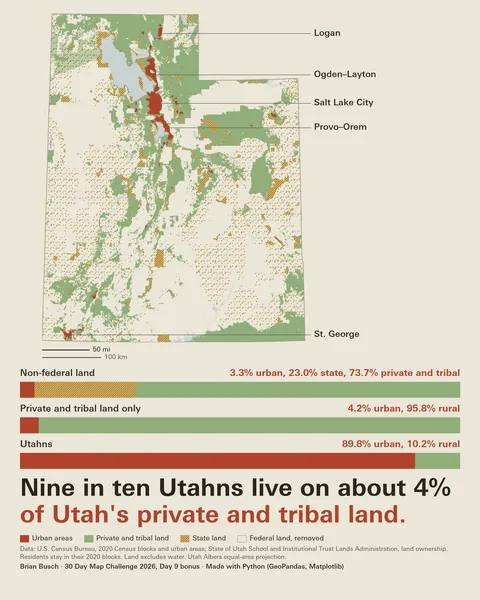
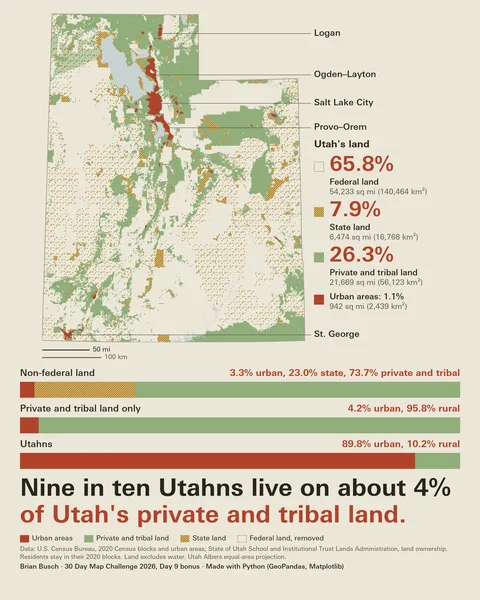
Add land shares to the Day 9 state land map
A list beside the map gives the federal, state and private and tribal
shares of Utah's land, with areas. The page text describes the list.

Changed region(s): [[0.6562, 0.21, 0.875, 0.54]]

diff --git a/notes/utah-urban-and-rural/index.html b/notes/utah-urban-and-rural/index.html
@@ -111,7 +111,7 @@
                 <figcaption><strong>Urban: Utah State Capitol, Salt Lake City.</strong> Cherry trees bloom on the Capitol lawn. The photograph shows walkers, a dog walker and people on benches, and the paper version keeps them. Urban areas hold 89.8% of Utahns on 1.1% of the land.</figcaption>
               </figure>
               <figure>
-                <picture><source type="image/webp" srcset="/assets/images/r/utah-urban-and-rural-panel-2-simpson-springs-480.webp 480w, /assets/images/r/utah-urban-and-rural-panel-2-simpson-springs-960.webp 960w" sizes="(max-width: 640px) 100vw, 350px"><img src="/assets/images/utah-urban-and-rural-panel-2-simpson-springs.jpg" alt="Cut-paper picture of two horses in silhouette, one black and one grey, on a brown bank below a tan banded butte and gold flats. Below it, a sage-green map of Utah marks the West Desert. The text reads Rural, Simpson Springs, West Desert, 40.04 degrees north, 112.79 degrees west, and 10.2 percent of Utahns live on the other 98.9 percent of the land." width="1080" height="1350" loading="lazy"></picture>
+                <picture><source type="image/webp" srcset="/assets/images/r/utah-urban-and-rural-panel-2-simpson-springs-480.webp 480w, /assets/images/r/utah-urban-and-rural-panel-2-simpson-springs-960.webp 960w" sizes="(max-width: 640px) 100vw, 350px"><img src="/assets/images/utah-urban-and-rural-panel-2-simpson-springs.jpg" alt="Cut-paper picture of two horses in silhouette, one black and one gray, on a brown bank below a tan banded butte and gold flats. Below it, a sage-green map of Utah marks the West Desert. The text reads Rural, Simpson Springs, West Desert, 40.04 degrees north, 112.79 degrees west, and 10.2 percent of Utahns live on the other 98.9 percent of the land." width="1080" height="1350" loading="lazy"></picture>
                 <figcaption><strong>Rural: Simpson Springs, West Desert.</strong> Two horses of the Onaqui herd stand on a pond bank below a butte on September 13, 2026. The paper version leaves out the water. The rest of Utah holds 10.2% of residents on 98.9% of the land.</figcaption>
               </figure>
               <figure>
@@ -119,7 +119,7 @@
                 <figcaption><strong>Urban: Point of the Mountain.</strong> The last frame of a timelapse from July 25, 2024 shows I-15 light trails across the valley at night. The viewpoint is at the edge of the Salt Lake City urban area. Urban areas average 3,119 people per square mile (1,204 per km²).</figcaption>
               </figure>
               <figure>
-                <picture><source type="image/webp" srcset="/assets/images/r/utah-urban-and-rural-panel-4-antelope-island-480.webp 480w, /assets/images/r/utah-urban-and-rural-panel-4-antelope-island-960.webp 960w" sizes="(max-width: 640px) 100vw, 350px"><img src="/assets/images/utah-urban-and-rural-panel-4-antelope-island.jpg" alt="Cut-paper picture of dark bison in a line crossing from gold grass onto a grey road with a yellow center line, below an ochre hillside. Below it, a sage-green map of Utah marks Antelope Island. The text reads Rural, Antelope Island State Park, 40.96 degrees north, 112.21 degrees west, and 4.1 people per square mile everywhere else, 1.6 per square kilometer." width="1080" height="1350" loading="lazy"></picture>
+                <picture><source type="image/webp" srcset="/assets/images/r/utah-urban-and-rural-panel-4-antelope-island-480.webp 480w, /assets/images/r/utah-urban-and-rural-panel-4-antelope-island-960.webp 960w" sizes="(max-width: 640px) 100vw, 350px"><img src="/assets/images/utah-urban-and-rural-panel-4-antelope-island.jpg" alt="Cut-paper picture of dark bison in a line crossing from gold grass onto a gray road with a yellow center line, below an ochre hillside. Below it, a sage-green map of Utah marks Antelope Island. The text reads Rural, Antelope Island State Park, 40.96 degrees north, 112.21 degrees west, and 4.1 people per square mile everywhere else, 1.6 per square kilometer." width="1080" height="1350" loading="lazy"></picture>
                 <figcaption><strong>Rural: Antelope Island State Park.</strong> A bison herd crosses the road in evening light on August 12, 2024. The paper version leaves out the road sign. The rest of Utah averages 4.1 people per square mile (1.6 per km²).</figcaption>
               </figure>
               <figure>
@@ -283,8 +283,8 @@ def check_palettes(names):
             <h3>State land, hatched</h3>
             <p>State land is 7.9% of Utah's land and 23.0% of the land that is not federal. Much of it is trust land that the School and Institutional Trust Lands Administration manages. This map hatches that land and leaves the federal land cut away.</p>
             <figure class="post-hero-image">
-              <picture><source type="image/webp" srcset="/assets/images/r/utah-urban-and-rural-state-land-bonus-480.webp 480w, /assets/images/r/utah-urban-and-rural-state-land-bonus-960.webp 960w, /assets/images/r/utah-urban-and-rural-state-land-bonus-1440.webp 1440w, /assets/images/r/utah-urban-and-rural-state-land-bonus-2160.webp 2160w" sizes="(max-width: 720px) 90vw, 720px"><img src="/assets/images/utah-urban-and-rural-state-land-bonus.jpg" alt="Map of Utah on a cream field with all federal land cut away. Ochre hatching shows state land, including many small trust sections scattered across the desert. Sage green shapes show private and tribal land. Red shapes show the urban areas, with Logan, Ogden-Layton, Salt Lake City, Provo-Orem and St. George labeled. Three bars sit below the map. Non-federal land is 3.3 percent urban, 23.0 percent state and 73.7 percent private and tribal. Private and tribal land alone is 4.2 percent urban. Utahns are 89.8 percent urban. The title reads Nine in ten Utahns live on about 4% of Utah&#x27;s private and tribal land." width="2160" height="2700" loading="lazy"></picture>
-              <figcaption>Ochre hatching is state land. Sage green is private and tribal land. Red shapes are the urban areas. <a href="/assets/images/utah-urban-and-rural-state-land-bonus.jpg">Open the map</a>.</figcaption>
+              <picture><source type="image/webp" srcset="/assets/images/r/utah-urban-and-rural-state-land-bonus-480.webp 480w, /assets/images/r/utah-urban-and-rural-state-land-bonus-960.webp 960w, /assets/images/r/utah-urban-and-rural-state-land-bonus-1440.webp 1440w, /assets/images/r/utah-urban-and-rural-state-land-bonus-2160.webp 2160w" sizes="(max-width: 720px) 90vw, 720px"><img src="/assets/images/utah-urban-and-rural-state-land-bonus.jpg" alt="Map of Utah on a cream field with all federal land cut away. Ochre hatching shows state land, including many small trust sections scattered across the desert. Sage green shapes show private and tribal land. Red shapes show the urban areas, with Logan, Ogden-Layton, Salt Lake City, Provo-Orem and St. George labeled. Three bars sit below the map. Non-federal land is 3.3 percent urban, 23.0 percent state and 73.7 percent private and tribal. Private and tribal land alone is 4.2 percent urban. Utahns are 89.8 percent urban. The title reads Nine in ten Utahns live on about 4% of Utah&#x27;s private and tribal land. A list to the right of the map gives Utah&#x27;s land: 65.8 percent federal, 54,233 square miles; 7.9 percent state, 6,474 square miles; 26.3 percent private and tribal, 21,669 square miles; and urban areas 1.1 percent, 942 square miles." width="2160" height="2700" loading="lazy"></picture>
+              <figcaption>Ochre hatching is state land. Sage green is private and tribal land. Red shapes are the urban areas. The list beside the map gives each owner's share of Utah's land. <a href="/assets/images/utah-urban-and-rural-state-land-bonus.jpg">Open the map</a>.</figcaption>
             </figure>
             <p>Without federal or state land, 21,669 square miles (56,123 km²) of private and tribal land remain. Urban areas cover 4.2% of that land. They still hold 89.8% of Utahns.</p>
             <ul>
